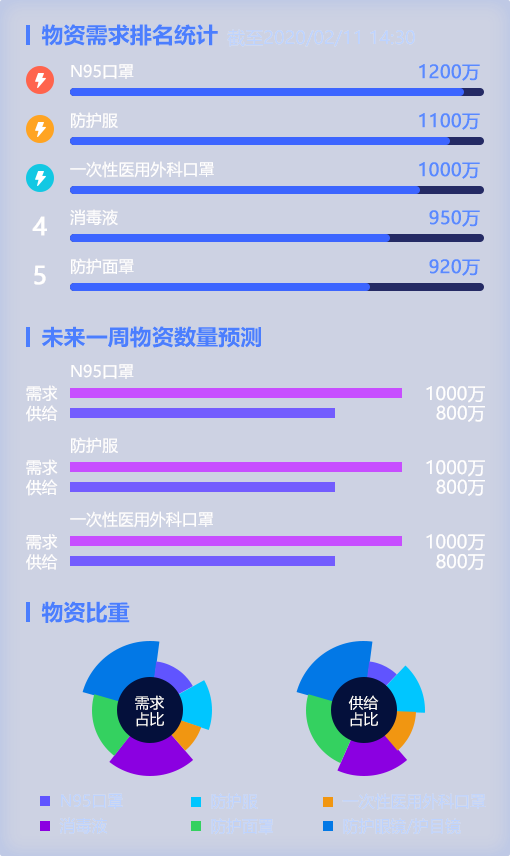
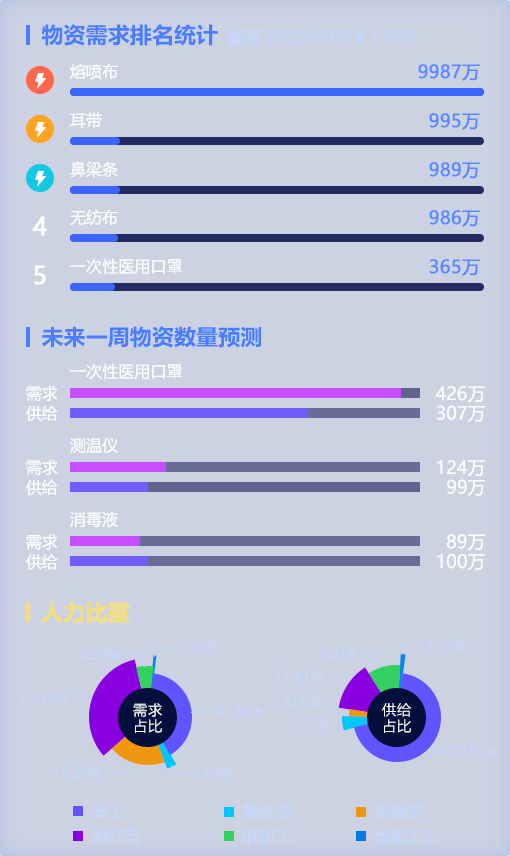
12

diff --git a/src/views/Home.vue b/src/views/Home.vue
@@ -11,13 +11,13 @@
         <div class="imgbox" style="font-size:20px;"> <img :src="item.img" width="22" height="22">{{item.name}}</div>
         <div class="xznum">
           <div class="leftnum" style="margin-right:30px">
-            <div class="dont1">平台累计(家)</div>
+            <div class="dont1">{{index==3?'累计次数(次)':'平台累计(家)'}}</div>
             <div class="dont2">
               <countup :endVal="item.leji"></countup>
             </div>
           </div>
           <div class="leftnum">
-            <div class="dont1">当日新增(家)</div>
+            <div class="dont1">{{index==3?'累计金额(万元)':'当日新增(家)'}}</div>
             <div class="dont2">
                <countup :endVal="item.xinz"></countup>
             </div>
@@ -72,10 +72,11 @@
         <div class="top-right"></div>
         <div class="bottom-right">
           <!-- <div class="tabbox"> <span class="tabfon"></span>物资推送</div> -->
-          <el-scrollbar>
+          <!-- <el-scrollbar> -->
             <!--以下是滚动的内容-->
+            <!-- <img src="../assets/image/rightimg.png" style="width:468px;height:100%" alt="" srcset=""> -->
             
-          </el-scrollbar>
+          <!-- </el-scrollbar> -->
         </div>
       </div>
     </div>
@@ -121,8 +122,8 @@ export default {
         {
           img:require("../assets/image/icon_4@3x.png"),
           name:'平台物资对接',
-          leji:4980,
-          xinz:26
+          leji:144,
+          xinz:1321
         },
         {
           img:require("../assets/image/icon_5@3x.png"),
@@ -279,7 +280,7 @@ export default {
         let data=[]
         if(res.data.list){
           res.data.list.forEach(iteam=>{
-            data.push([iteam.pubDate.substring(1,10),iteam.mainBody])
+            data.push([iteam.pubDate.substring(0,10),iteam.mainBody])
           })
           // this.config.data=data
           // console.log(this.config)
@@ -575,7 +576,7 @@ export default {
       width: vw(510);
       display: flex;
       flex-direction: column;
-       background:url("../assets/image/right.png");
+       background:url("../assets/image/right1.png");
       background-size:100% 100%;
       .top-right{
         width:100%;

diff --git a/src/views/scrolltime.vue b/src/views/scrolltime.vue
@@ -22,7 +22,7 @@ export default {
     // 小数点位数
     decimalPlaces: {
       type: Number,
-      required: false,
+      required: true,
       default: 0
     },
     // 是否数字分组
